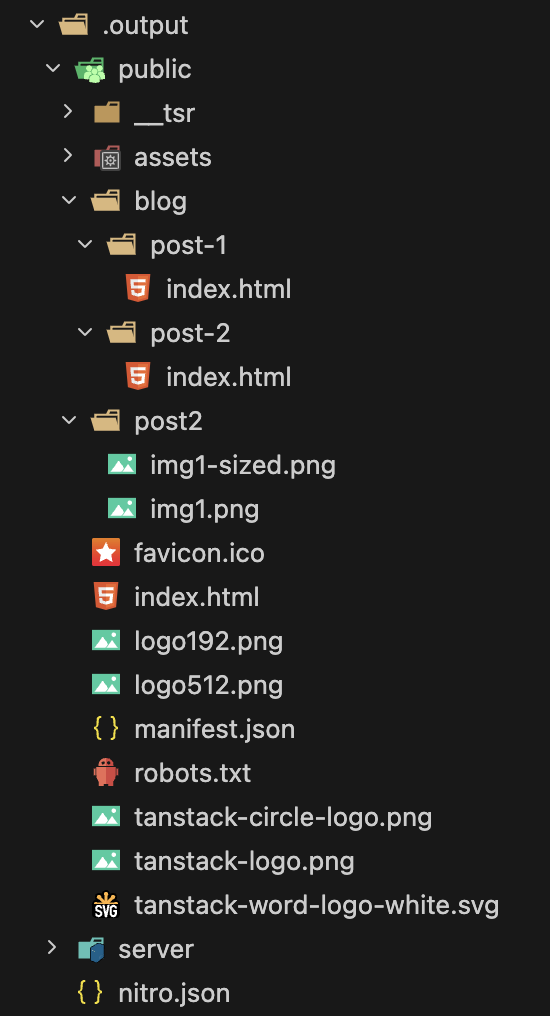
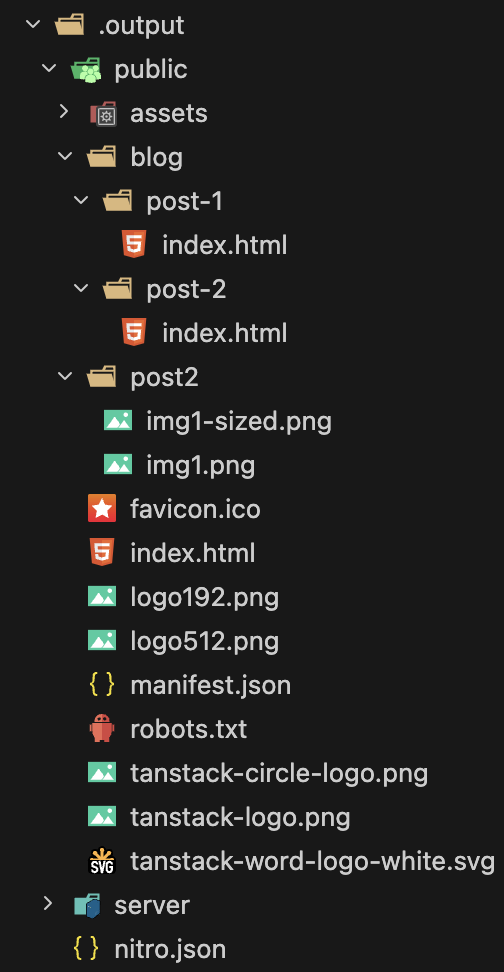
work

Changed region(s): [[0.0893, 0.0, 0.9821, 1.0], [0.119, 0.1543, 0.1488, 0.1852]]

diff --git a/src/blog/blog-in-tanstack-pt2/index.md b/src/blog/blog-in-tanstack-pt2/index.md
@@ -4,21 +4,21 @@ date: "2026-02-16T10:00:00.000Z"
 description: An introduction to building a blog in TanStack Start Part 2
 ---
 
-In part 1 of our post we built a blog in TanStack Start. We set up Shiki for code formatting, and we created server functions to inspect the file system and discover our blog posts (in markdown files), as well as put together the actual blog content for any single post.
+In part 1 of our post we built a blog in TanStack Start. We set up Shiki for code formatting, and we created server functions to inspect the file system and discover our blog posts (in markdown files), and build the actual blog content for any single post.
 
 ## Performance issues
 
-It turns out that the Shiki setup, which lives in the top-level `async function getMarkdownIt() {` method we saw in part 1 takes no small amount of time to set up. It's not that the function is slow to call; it's quite fast, in fact. But the initial _parsing_ of this module is extremely slow. On my own, modern MacBook Pro is takes about 2 _seconds_ (2000ms) to parse.
+It turns out that the Shiki setup, which lives in the top-level `async function getMarkdownIt() {` method we saw in part 1 takes no small amount of time to set up. It's not that the function is slow to call; it's quite fast. But the initial _parsing_ of this module is extremely slow. On my own, modern MacBook Pro it takes about 2 _seconds_ (2000ms) to parse. This is because no small amount of wasm is being loaded to parse, and format whatever code is passed in.
 
-This means that, when your web server first spins up, and processes the import graph, this particular function will block the process for about 2 seconds. You might this that, for a blog, this is an unimportant cost: it's just spin-up time, after all, which happens only once.
+This means that, when your web server first spins up, and processes the import graph, this particular function will block the process for about 2 seconds. You might think that, for a blog, this is an unimportant cost: it's just spin-up time, after all, which happens only once.
 
 ## Cold Starts
 
-Or does it? What if you deploy this site to Netlify, Vercel, or any other serverless platform, like AWS Lambda. With that deployment model, cloud functions will constantly be spinning up, to process requests. This spin-up time is called a "cold start," and is a well known issue with Serverless. Usually cold start times are reasonable, and modern platforms like Netlify and Vercel will "pre-warm" serverless functions to minimize this cost from happening at all.
+Or does it? What if you deploy this site to Netlify, Vercel, or any other serverless platform, like AWS Lambda. With that runtime model, cloud functions will constantly be spinning up, to process requests. This spin-up time is called a "cold start," and is a well known issue with Serverless. Usually cold start times are reasonable, and modern platforms like Netlify and Vercel will "pre-warm" serverless functions to minimize this cost from happening at all.
 
 ## Going static
 
-Rather than debate the importance of minimizing cold starts for a blog that likely has few readers, let's take a step back: do we even need a server at all? Blogs are inherently static. Any modern web framework provides a way to statically pre-render content. This is exactly what we need. Why not just pre-render our blog pages, and then we can render them anywhere, without any server processing. We could even just toss the built static assets onto a CDN.
+Rather than debate the importance of minimizing cold starts for a blog that likely has few readers, let's take a step back: do we even need a server? Blogs are inherently static. Any modern web framework provides a way to statically pre-render content. This is exactly what we need. Why not just pre-render our blog pages, and then we can render them anywhere, without any server processing. We could even just toss the built static assets onto a CDN.
 
 ## Pre-rendering our pages
 
@@ -32,7 +32,7 @@ tanstackStart({
 }),
 ```
 
-This enables, well, pre-rendering. Now, during build, TanStack will crawl declared pages, and crawl links therein, and so on. So it will start with our / route, it will build the page, with all our blog posts, which includes the `<Link>` tags to each. From there, each Link on the page will be crawled. If those pages had links, they'd be crawled as well.
+This enables, well, pre-rendering. Now, during build, TanStack will crawl routes, and crawl links therein. So it will start with our / route, it will build the page, with all our blog posts, which includes the `<Link>` tags to each. From there, each Link on the page will be crawled. If those pages had links, they'd be crawled as well.
 
 When we run our build, we can see this in action
 
@@ -42,11 +42,11 @@ We can look at the output of this build by peaking inside the .output folder, wh
 
 ![Built assets](/tanstack-blog-post/img6.png)
 
-As we can see, the /public folder contains everything that can be routed to directly. Our index.html is in there, as well as paths to both blogs, and the images links from blog post-2.
+As we can see, the /public folder contains everything that can be routed to directly. Our index.html is in there, as well as paths to both blogs, and the images from blog post-2.
 
 ## Running our content as a static website
 
-Uploading these files to an S3 bucket would be a bit over the top for this post, but to test true static rendering more simply I've put together these two scripts on this post's repo
+Uploading these files to an S3 bucket would be a bit over the top for this post, but to test true static rendering more simply, I've put together these two scripts on this post's repo
 
 ```
 "generate-static-site": "npm run build && rm -rf static-site && mkdir -p static-site && cp -r .output/. static-site",
@@ -55,7 +55,7 @@ Uploading these files to an S3 bucket would be a bit over the top for this post,
 
 Basically a script to run build, and copy the contents to a folder called `static-site`.
 
-And then a script to run `static-server.ts`. This file looks like this, in its entirety.
+And then a script to run `static-server.ts`, which looks like this, in its entirety.
 
 ```ts
 import express from "express";
@@ -76,7 +76,7 @@ app.listen(PORT, () => {
 });
 ```
 
-It fires up Express, and points the static middleware at /public inside the static-site folder we just copied out build into.
+It fires up Express, and points the static middleware at /public inside the static-site folder we just copied our build into.
 
 When we run this app, all of our pages work when we browse directly to them.
 
@@ -108,7 +108,7 @@ We already saw the first, which was static pre-rendering. Now let's look at the 
 
 ## Static server functions
 
-Our client navigation will run either way, but the real problem is our server functions. To solve this, TanStack provides static middleware we can apply to server functions. This causes our server functions to record invocations, and results during build, and then save those payloads to simple json files in the build output we already saw.
+Our client navigation will run either way, but the real problem is our server functions. To solve this, TanStack provides static middleware we can apply to server functions. This causes our server functions to, during build, record invocations and results, and then save those payloads to simple json files in the build output.
 
 Let's try it!
 
@@ -137,10 +137,14 @@ Now when we run our build, we see something new in there
 
 \_\_tsr refers to TanStack Router, and the `staticServerFnCache` contains the 3 server function calls from parsing our blog: one for the index page, and one each for the two posts we have.
 
-The plugin recorded those invocations and results, and more importantly, replaced those call sites with fetches to those json files in the \_\_tsr folder.
+The plugin recorded those invocations and results, and more importantly, replaced those call sites with fetches to the json files in the \_\_tsr folder.
 
-If we run our blog again, we can navigate, and see much simpler fetches for those json files, which replace the original calls to the actual server function.
+If we run our blog again, we can navigate, and see much simpler fetches to those json files.
+
+![Network tab](/tanstack-blog-post/img12.png)
 
 ## Concluding thoughts
+
+TanStack Start is a superb framework. It's known more for things like strong static typing support, and flexible data loading. But as we saw here, it also has creative ways of supporting static generation.
 
 Happy Coding!